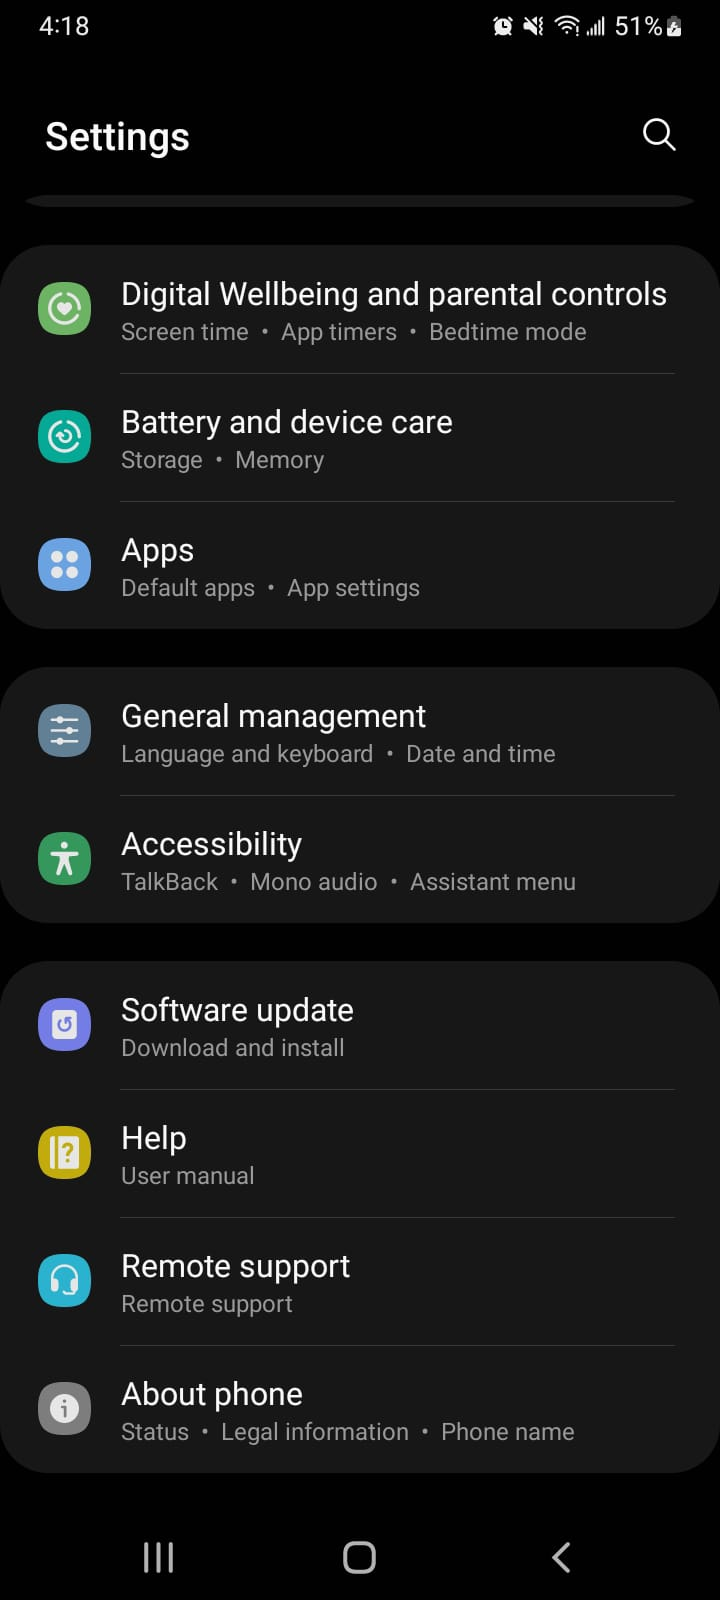
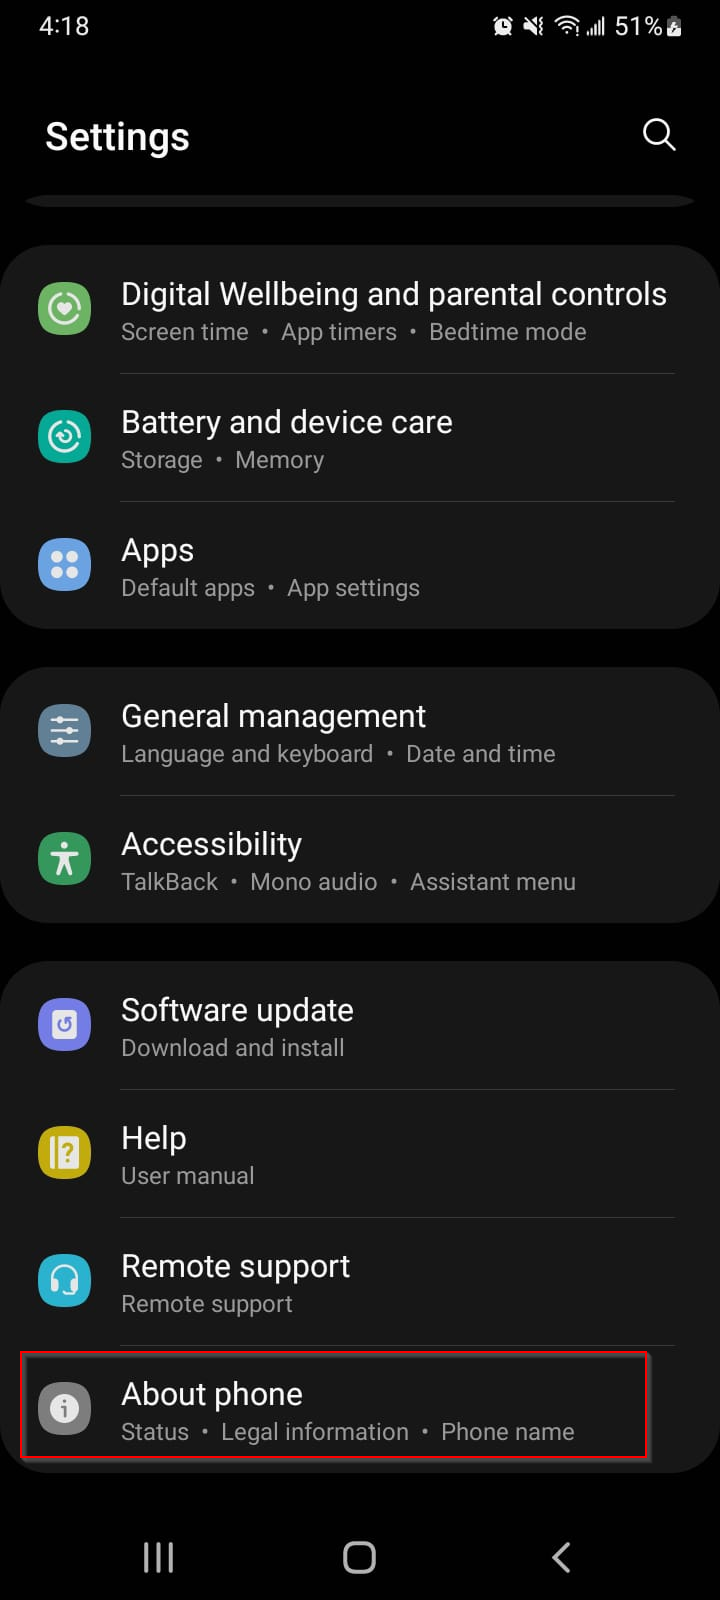
avanzando el primer post

Changed region(s): [[0.0306, 0.8438, 0.9167, 0.9375]]

diff --git a/_posts/2023-01-11-Tool-Instalar-fridaserver.md b/_posts/2023-01-11-Tool-Instalar-fridaserver.md
@@ -15,22 +15,46 @@ tags:
 
 Dentro de este blog se llevara el paso a paso sobre lo que se necesita en un ambiente para las auditorias mobiles.
 
-- [#Celular en modo Desarrollador](#Celular-en-modo-Desarrollador)
-- [#Instalación de Platform-tools para el uso de ADB](#Instalación-de-Platform-tools-para-el-uso-de-ADB)
-- [#Instalación de frida server/client](#shellcode-analysis-2-linuxx86shellreversetcp)
+- [#Celular en modo Desarrollador](#celular-en-modo-Desarrollador)
+- [#Instalación de Platform tools para el uso de ADB](#instalación-de-Platform-tools-para-el-uso-de-ADB)
+- [#Instalación de frida server/client](#Instalación-de-frida-serverclient)
 - [#Instalación de certificado de Burp Suite](#stepping-through-the-shellcode-1)
 - [# Shellcode analysis #3: linux/x86/adduser](#shellcode-analysis-3-linuxx86adduser)
 - [Stepping through the shellcode](#stepping-through-the-shellcode-2)
 
-# Celular en modo Desarrollador 
+# celular en modo Desarrollador 
 ---------------------------------------
 
-Para las auditorias mobiles se requiere de un celular rooteado, esta guia no abarca la manera de rootear un dispositivo mobile,`CMD` parameter.
+Para las auditorias mobiles se requiere de un celular rooteado, esta guia no abarca la manera de rootear un dispositivo mobile.
 
-# Paso 1:
+## Paso 1:
 Acceder a las configuraciones del celular y dirigirnos a la opción `Acerca del telefono`.
 
 ![](\assets\images\Hacking-mobile\acerca-phone.jpeg)
+
+## Paso 2:
+Luego nos dirigimos a la opción de `Información del Software`, donde visualizaremos diferentes opciones pero nos centraremos en la opción de `Build number` para darle click varias veces hasta que nos diga que tenemos  activado el modo desarrollador.
+
+![](\assets\images\Hacking-mobile\modo-desarrollador.jpeg)
+
+Teniendo esto activo, nos dirigimos a las configuraciones generales y hasta abajo encontraremos la opción `Opcion de Desarrollador` o `Developer Options`.
+
+![](\assets\images\Hacking-mobile\desarrollador-activo.jpeg)
+
+Con esto hecho solo nos falta habilitar la depueración por ADB para que nos podamos conectar por medio de ADB al dispositivo.
+
+![](\assets\images\Hacking-mobile\adb-on.jpeg)
+
+Teniendo esto liso, procedemos a descargar el paquete de herramientas para SDK de android, en mi caso instalare el paquete para Windows:
+
+![](\assets\images\Hacking-mobile\jdk-windows.png)
+
+Para la siguiente ventana que se muestra solo tenemos que aceptar los terminos y se descargara el paquete para windows:
+
+![](\assets\images\Hacking-mobile\jdk-windows.png)
+
+El sitio oficial para los paquetes JDK de android:
+- [https://developer.android.com/tools/releases/platform-tools?hl=es-419](https://developer.android.com/tools/releases/platform-tools?hl=es-419)
 
 ```
 slemire@slae:~/slae32/assignment5/1_exec$ msfvenom -p linux/x86/exec -f c -o exec_shellcode CMD=/usr/bin/id                              
